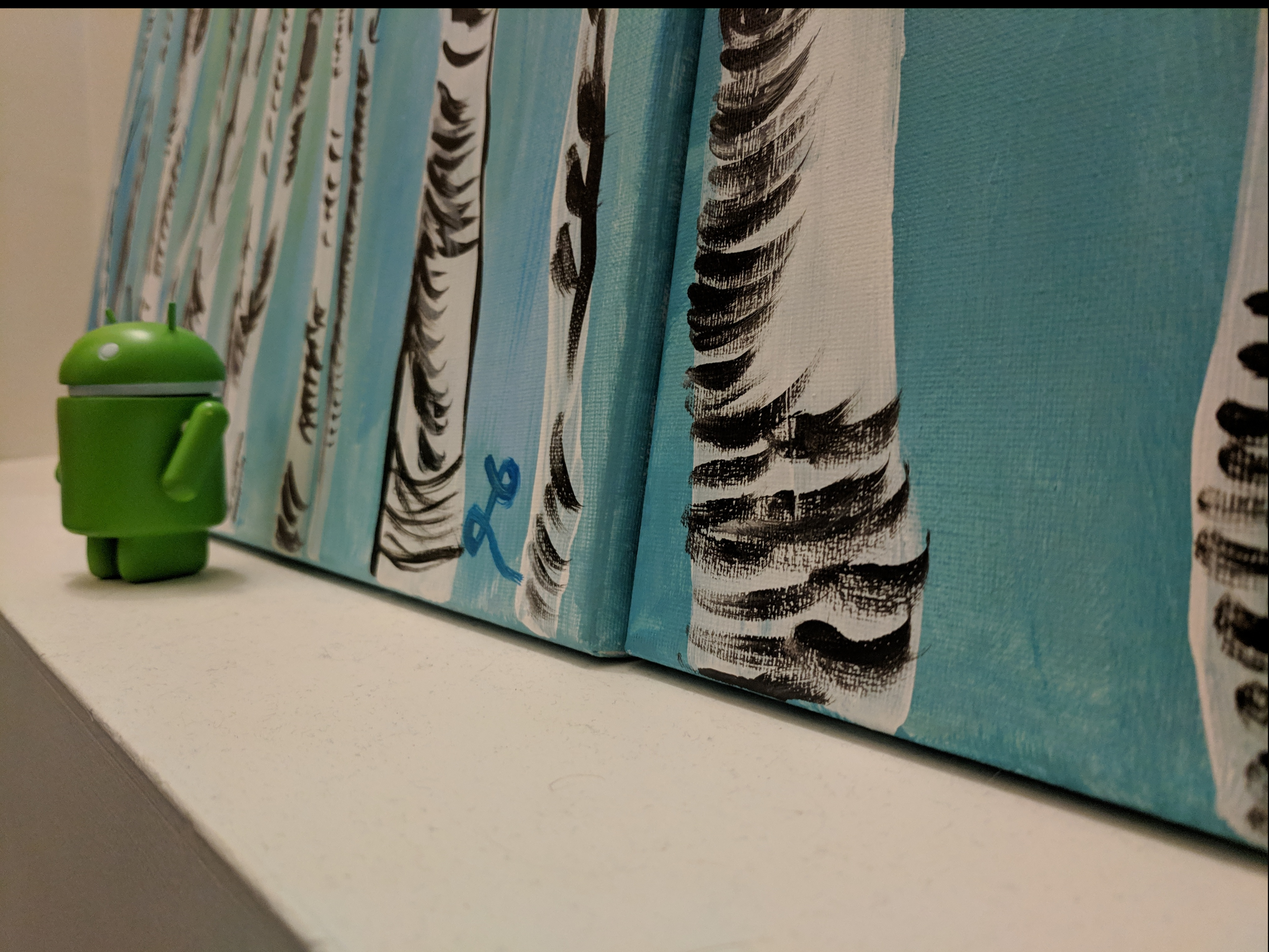
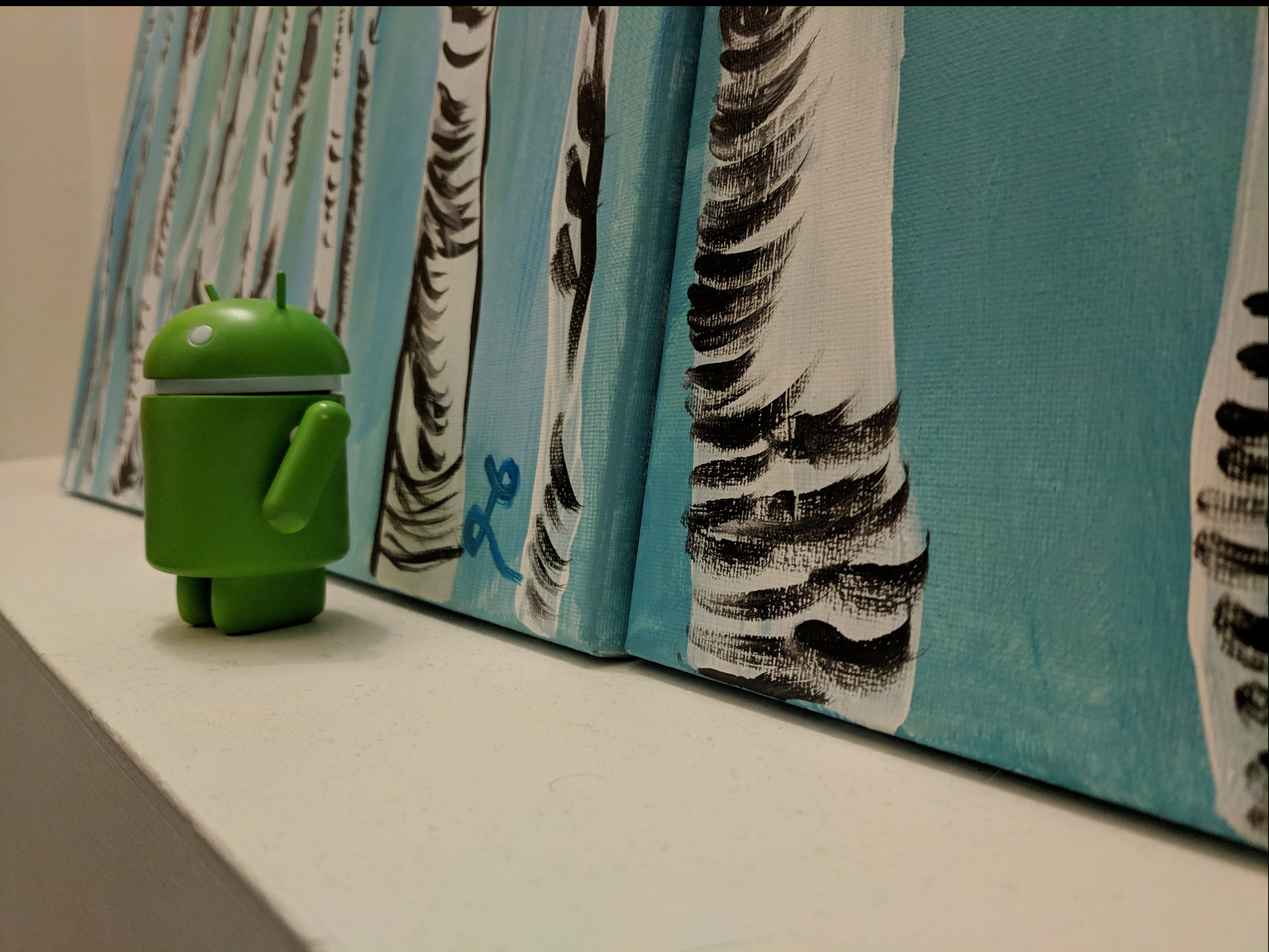
more test images and warp tests

diff --git a/median.py b/median.py
@@ -6,6 +6,7 @@ import cv2
 from PIL import Image
 
 def get_files(path):
+    """retrieves all the files needed for processing from the path"""
     file_array = []
     for filename in os.listdir(path):
         if filename != '.DS_Store':
@@ -15,7 +16,7 @@ def get_files(path):
     return file_array
 
 def make_sequence(path, output_file):
-
+    """make sequence creates a sequence of images"""
     file_array = get_files(path)
 
     img_array = []
@@ -131,24 +132,24 @@ def make_array_by_pixel(path):
     return img_array
 
 def align_image(original_path, aligned_path, original_file, transform_file, new_file):
-
+    """aligns a given image"""
     original = cv2.imread(original_path + original_file)
     transform = cv2.imread(original_path + transform_file)
 
     original_gray = cv2.cvtColor(original, cv2.COLOR_BGR2GRAY)
     transform_gray = cv2.cvtColor(transform, cv2.COLOR_BGR2GRAY)
-    
+
     size = original.shape
-    
+
     warp_mode = cv2.MOTION_TRANSLATION # Translation not homography
 
     warp_matrix = np.eye(2, 3, dtype=np.float32)
 
-    number_of_iterations = 5000;
-    termination_eps = 1e-10;
+    number_of_iterations = 5000
+    termination_eps = 1e-10
     criteria = (cv2.TERM_CRITERIA_EPS | cv2.TERM_CRITERIA_COUNT, number_of_iterations, termination_eps)
-    cc, warp_matrix = cv2.findTransformECC (original_gray, transform_gray, warp_matrix, warp_mode, criteria)
-    
+    cc, warp_matrix = cv2.findTransformECC(original_gray, transform_gray, warp_matrix, warp_mode, criteria)
+
     transform_aligned = cv2.warpAffine(transform, warp_matrix, (size[1], size[0]), flags=cv2.INTER_LINEAR + cv2.WARP_INVERSE_MAP);
     cv2.imwrite(aligned_path + new_file, transform_aligned)
     print(aligned_path + new_file)
@@ -157,28 +158,25 @@ def align_image(original_path, aligned_path, original_file, transform_file, new_
     cv2.imshow("Image 1", original)
     cv2.imshow("Aligned Image 2", transform_aligned)
     cv2.waitKey(0)"""
-#image_array = make_array('./image_sequences/drink_shake/')
 
-make_sequence('./image_sequences/coffee_large/', 'coffee_video.mp4')
-
-"""file_array = get_files('./image_sequences/coffee_few/')
+## START IMAGE ALIGNMENT
+file_array = get_files('./image_sequences/kirby/') #all of the files we need
 
 base_file = file_array[0]
 counter = 1
-for file in file_array:
+for file in file_array: #align each file
     output = 'aligned_' + str(counter) + '.jpg'
-    if file is not base_file:
-        align_image('./image_sequences/coffee_few/', './image_sequences/aligned/coffee_few/', base_file, file, output)
+    if file is not base_file: #the base file sets the standard for alignment
+        align_image('./image_sequences/kirby/', './image_sequences/aligned/kirby/', base_file, file, output)
     else:
-        original = cv2.imread('./image_sequences/coffee_few/' + base_file)
-        print('./image_sequences/aligned/coffee_few/' + output)
-        cv2.imwrite('./image_sequences/aligned/coffee_few/' + output, original)
+        original = cv2.imread('./image_sequences/kirby/' + base_file)
+        print('./image_sequences/aligned/kirby/' + output)
+        cv2.imwrite('./image_sequences/aligned/kirby/' + output, original)
     counter += 1
-image_array = make_array('./image_sequences/aligned/coffee_few/')"""
+image_array = make_array('./image_sequences/aligned/kirby/')
+## END IMAGE ALIGNMENT
 
-"""image_array = make_array('./image_sequences/aligned/coffee_large/')
+#image_array = make_array('./image_sequences/kirby/')
 image_array = np.asarray(image_array)
 med = np.median(image_array, axis=0)
-#image_array.append(med)
-#med = np.median(image_array)
-cv2.imwrite('./results/coffee_13_frames.jpg', med)"""
+cv2.imwrite('./results/kirby-euclidean-align.jpg', med)

diff --git a/README.md b/README.md
@@ -1,0 +1,21 @@
+# median filtering
+## program description
+The following program will use median filtering to remove undesired moving objects from a series of photographs to retrieve the background image.
+
+## summary of test images
+| series name | degree of camera shake | degree of overlap | number of frames |
+| --------- | ----------------- | -------------- | ------------- |
+| android | very little | some overlap | 5 |
+| cat | severe | severe | 6 |
+| coffee_few | very little | none | 5 |
+| coffee | very little | some overlap | 13 |
+| drink_shake | severe | none | 3 |
+| glasses | very little | none | 3 |
+| phone | none | some | 6 |
+| zoom | some | severe | 6 |
+| kirby | severe | none | 6 |
+| tiger | none | none | 6 |
+| bottle | none | severe | 6 |
+| mccafe | severe | severe | 6 |
+
+Note: there are additional frames for kirby, tiger, and mccafe
